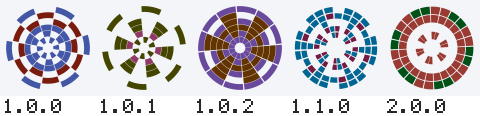
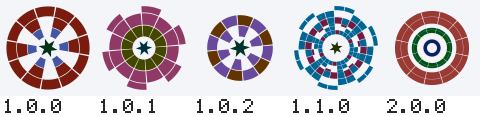
feat: strengthen polar, and test on wasip1/wasm
Two things.

polar was the weakest of the six renderers: an evenly spaced ring of evenly
filled wedges reduces, at the resolution a perceptual hash works at, to "a grey
annulus" whatever the cells say, so its marks scored far closer together than
they looked. Information a coarse comparison can see has to live in the low
frequencies, which for a radial figure means the profile from the middle
outwards. So the profile now carries identity too: ring widths are drawn rather
than uniform and re-proportioned by the patch, each ring has its own density,
and a centre device — disc, ring, rosette or star — fills the hole, which is
the most visible position on the mark and was previously wasted. The ring and
sector counts span a wider range.

Weakest relation rises from 14 to 16 bits, major jumps from 18 to 22, the
global floor from 6 to 8, and the mean over all pairs from 43.1 to 47.7. The
gap between intra-major and inter-major means widens from 1.4 to 3.9, so the
family signal is stronger as well.

Four further ideas were measured and rejected, and the reasons are recorded on
the renderer, because they are all the same reason and the next person will
have the same ideas. On a radial figure anything large enough for a coarse
comparison to see is large enough to dominate it: a heavy outer rim on the
archetype stream made every version of a major share one silhouette, and on the
patch stream it drowned out the symmetry that distinguishes majors; putting
[…]

diff --git a/render_polar.go b/render_polar.go
@@ -19,14 +19,51 @@ func init() {
 // stream, which is what turns noise into something that looks designed. A
 // major version therefore has a symmetry, visible at a glance.
 //
-// Amplified parameters: the whole-figure rotation, the ring the pattern starts
-// at, and — through the palette — hue.
+// The radial profile carries the identity, not just the cells. Ring widths and
+// per-ring density both vary, and a centre device sits in the hole. That is a
+// deliberate response to measurement: an evenly spaced ring of evenly filled
+// wedges reduces, at the resolution a perceptual hash works at, to "a grey
+// annulus" whatever the cells say, and the marks scored far closer together
+// than they looked. Information a hash can see has to live in the low
+// frequencies, which for a radial figure means the profile from the middle
+// outwards.
+//
+// Amplified parameters: the whole-figure rotation, the density of each ring,
+// the ring proportions, the size of the centre device, and — through the
+// palette — hue.
+//
+// Four other ideas were measured and rejected, all for the same reason: on a
+// radial figure the low-frequency vocabulary is small, and anything large
+// enough for a coarse comparison to see is large enough to dominate it. A
+// heavy outer rim on the archetype stream made every version of a major share
+// one silhouette, which improved family cohesion and cost more distinctness
+// than it bought; on the patch stream it drowned out the symmetry that
+// separates majors. Putting the figure's overall size on the variant stream
+// separated minors and pushed patches together by exactly as much. Turning
+// each ring independently broke the fold symmetry a major is recognised by.
+// Letting rings reach empty or solid gained on one relation and lost on
+// another. What is left is the configuration whose *weakest* relation is
+// strongest — which is the one that matters, since the guarantee is a floor.
 type polarRenderer struct{}
 
 func (polarRenderer) Name() string { return "polar" }
 
 // Caps reports no byte-exactness: the wedges are built from Cos and Sin.
 func (polarRenderer) Caps() Caps { return Caps{} }
+
+// Centre devices. The hole in the middle of a radial figure is the single most
+// visible place on it, and leaving it empty for every version wastes the
+// strongest position on the mark.
+const (
+	centreEmpty = iota
+	centreDisc
+	centreRing
+	centreRosette
+	centreStar
+)
+
+// densitySteps is the granularity of a ring's fill probability.
+const densitySteps = 8
 
 func (polarRenderer) Render(ctx *Context) error {
 	p := ctx.Params
@@ -36,20 +73,47 @@ func (polarRenderer) Render(ctx *Context) error {
 	arch := p.Archetype()
 	// The fold is the symmetry order. Even folds read as calm and heraldic,
 	// odd ones as dynamic; both are far more legible than an unmirrored field.
-	fold := arch.IntRange(3, 8)
+	fold := arch.IntRange(3, 9)
 	mirrored := arch.Bool()
+	centre := arch.Choice(5)
 
 	variant := p.Variant()
-	rings := variant.IntRange(3, 6)
+	rings := variant.IntRange(3, 7)
 	// Sectors per fold, so the total sector count is always a multiple of the
 	// symmetry order and the pattern closes on itself exactly.
-	perFold := variant.IntRange(2, 4)
-	hole := variant.Range(0.12, 0.3)
-	gap := variant.Range(0, 0.18)
+	perFold := variant.IntRange(2, 5)
+	hole := variant.Range(0.16, 0.36)
+	gap := variant.Range(0.02, 0.16)
 
 	amp := p.Amplified()
 	rot := amp.Range(0, 2*math.Pi)
 	inkBias := amp.Choice(2)
+	centreScale := amp.Range(0.5, 1.0)
+
+	// Ring widths are drawn rather than uniform, and drawn from both streams.
+	// A figure of equal rings is the same annulus for every version; the
+	// variant part gives a release family its radial rhythm, and the patch
+	// part re-proportions it. Without the second half, every version sharing a
+	// major and minor differs only in which cells are lit — high-frequency
+	// detail that a coarse comparison averages away, and the versions in a
+	// long 0.0.x series scored far closer together than they looked.
+	widths := make([]float64, rings)
+	var widthTotal float64
+	for i := range widths {
+		widths[i] = variant.Range(0.55, 1.9) * amp.Range(0.65, 1.5)
+		widthTotal += widths[i]
+	}
+
+	// How full each ring is. This is the loudest thing a patch can change: it
+	// rewrites the figure's radial brightness profile, which is precisely what
+	// a low-frequency comparison looks at.
+	density := make([]int, rings)
+	for i := range density {
+		// Never quite empty and never quite solid: a ring of either kind
+		// carries no angular information, and letting rings reach those states
+		// measurably cost more on one relation than it bought on another.
+		density[i] = amp.IntRange(2, densitySteps-1)
+	}
 
 	sectors := fold * perFold
 	// Under mirroring only half of each fold is drawn from entropy; the rest
@@ -64,10 +128,11 @@ func (polarRenderer) Render(ctx *Context) error {
 	for r := range cells {
 		cells[r] = make([]int, sectors)
 		for i := 0; i < drawn; i++ {
-			// Three states: empty, first ink, second ink. Leaving cells empty
-			// is what gives the figure air; a fully populated ring is a solid
-			// annulus and carries no information.
-			v := detail.Choice(3)
+			v := 0
+			if detail.IntRange(0, densitySteps-1) < density[r] {
+				// Two inks, so a ring can be solid, mottled, or empty.
+				v = 1 + int(detail.Bit())
+			}
 			for f := 0; f < fold; f++ {
 				cells[r][f*perFold+i] = v
 				if mirrored {
@@ -77,15 +142,22 @@ func (polarRenderer) Render(ctx *Context) error {
 		}
 	}
 
-	ringW := (1 - hole) / float64(rings)
+	// Ring boundaries, from the hole outwards, following the drawn widths.
+	bounds := make([]float64, rings+1)
+	bounds[0] = hole
+	acc := 0.0
+	for i, w := range widths {
+		acc += w
+		bounds[i+1] = hole + (1-hole)*acc/widthTotal
+	}
 
 	for ink := 1; ink <= 2; ink++ {
 		any := false
 		for r := 0; r < rings; r++ {
-			r0 := outer * (hole + float64(r)*ringW)
-			r1 := outer * (hole + float64(r+1)*ringW)
+			r0 := outer * bounds[r]
+			r1 := outer * bounds[r+1]
 			// A gap between rings keeps the figure from fusing into a disc.
-			r1 -= outer * ringW * gap
+			r1 -= (r1 - r0) * gap
 			for sIdx := 0; sIdx < sectors; sIdx++ {
 				if cells[r][sIdx] != ink {
 					continue
@@ -102,6 +174,72 @@ func (polarRenderer) Render(ctx *Context) error {
 		}
 	}
 
+	drawCentreDevice(ctx, centre, cx, cy, outer*hole*centreScale, fold, rot)
+
 	MarkPrerelease(ctx)
 	return nil
+}
+
+// drawCentreDevice fills the hole. Radius is the space available; each device
+// keeps clear of the innermost ring.
+func drawCentreDevice(ctx *Context, kind int, cx, cy, radius float64, fold int, rot float64) {
+	if kind == centreEmpty || radius <= 0 {
+		return
+	}
+	c := ctx.Canvas
+
+	switch kind {
+	case centreDisc:
+		circle(c, cx, cy, radius*0.82)
+
+	case centreRing:
+		circle(c, cx, cy, radius*0.86)
+		// Reversed, so the non-zero rule leaves a hole rather than filling it.
+		reverseCircle(c, cx, cy, radius*0.5)
+
+	case centreRosette:
+		// One bud per fold, so the centre repeats the figure's symmetry.
+		r := radius * 0.34
+		ring := radius - r
+		for i := 0; i < fold; i++ {
+			a := rot + 2*math.Pi*float64(i)/float64(fold)
+			circle(c, cx+ring*math.Cos(a), cy+ring*math.Sin(a), r)
+		}
+
+	case centreStar:
+		// A simple 2·fold-pointed star, alternating between two radii.
+		n := fold * 2
+		for i := 0; i < n; i++ {
+			a := rot + math.Pi*float64(i)/float64(fold)
+			rr := radius * 0.9
+			if i%2 == 1 {
+				rr = radius * 0.38
+			}
+			x, y := cx+rr*math.Cos(a), cy+rr*math.Sin(a)
+			if i == 0 {
+				c.MoveTo(x, y)
+				continue
+			}
+			c.LineTo(x, y)
+		}
+		c.Close()
+	}
+
+	ctx.Canvas.Fill(ctx.Palette.Ink(2))
+}
+
+// reverseCircle appends a circle wound the opposite way to circle, so that it
+// subtracts under the non-zero fill rule.
+func reverseCircle(c interface {
+	MoveTo(x, y float64)
+	CubicTo(x1, y1, x2, y2, x, y float64)
+	Close()
+}, cx, cy, r float64) {
+	k := kappa * r
+	c.MoveTo(cx+r, cy)
+	c.CubicTo(cx+r, cy-k, cx+k, cy-r, cx, cy-r)
+	c.CubicTo(cx-k, cy-r, cx-r, cy-k, cx-r, cy)
+	c.CubicTo(cx-r, cy+k, cx-k, cy+r, cx, cy+r)
+	c.CubicTo(cx+k, cy+r, cx+r, cy+k, cx+r, cy)
+	c.Close()
 }

diff --git a/distinctness_test.go b/distinctness_test.go
@@ -49,15 +49,14 @@ var thresholds = map[string]blazontest.Thresholds{
 		Floor:           10,
 		PrereleaseRatio: 0.35,
 	},
-	// polar is the weakest of the six, and the most volatile. Its marks are
-	// rings of thin wedges, which reduce to similar low-frequency content
-	// however the cells fall, so its floor sits well below the rest and its
-	// minima move most between architectures.
+	// polar remains the weakest of the six. A radial figure has a small
+	// low-frequency vocabulary, and every attempt to widen it traded one
+	// relation against another — see the renderer's own notes.
 	"polar": {
-		MinPatch:        10,
-		MinMinor:        10,
-		MinMajor:        12,
-		Floor:           4,
+		MinPatch:        11,
+		MinMinor:        11,
+		MinMajor:        15,
+		Floor:           5,
 		PrereleaseRatio: 0.35,
 	},
 	"superformula": {

diff --git a/README.md b/README.md
@@ -132,7 +132,7 @@ blazon dist -r truchet
 | `superformula` | Gielis' superformula, drawn from curated shape families — star, flower, gear, crystal, leaf, shield. The default. |
 | `flowfield` | Streamlines through a Sherlock–Monro orientation field with fingerprint cores and deltas. Arch, loop and whorl come from the major version; minutiae emerge from the ridge spacing rule. |
 | `truchet` | Truchet tiles. Arcs meet at cell edge midpoints, so the marks join across the grid into loops and labyrinths. |
-| `polar` | A bitmap in rings and sectors instead of rows and columns, mirrored across a fold from the archetype stream. |
+| `polar` | A bitmap in rings and sectors instead of rows and columns, mirrored across a fold from the archetype stream, with a centre device in the hole and a radial profile that varies ring by ring. |
 | `cistercian` | Medieval numerals: one stave per version component, four digits per stave. Legible — you can read the version back out of it. |
 | `bishop` | The drunken bishop walk from OpenSSH randomart, for the terminal. |
 
